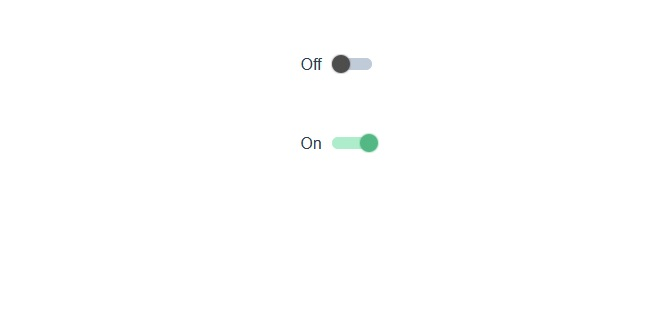
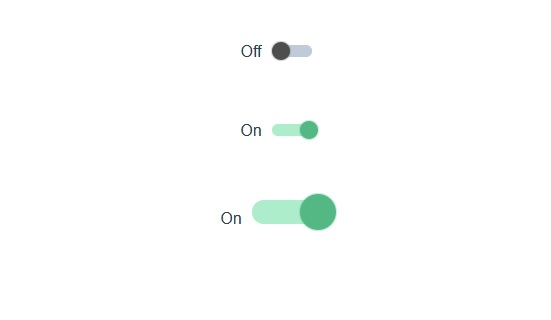
added lg size fo toggle input

Changed region(s): [[0.4011, 0.6, 0.6171, 0.7429], [0.4319, 0.3714, 0.5862, 0.4857], [0.4319, 0.1143, 0.5862, 0.2286]]

diff --git a/src/components/ToggleInput.vue b/src/components/ToggleInput.vue
@@ -1,10 +1,10 @@
 <template>
-    <label class="toggle__button" :class="{'active': isActive}">
+    <label class="toggle__button" :class="{'active': isActive, 'sm': size==='sm','lg': size==='lg' }">
         <span v-if="isActive" class="toggle__label">{{ enableText }}</span>
         <span v-if="!isActive" class="toggle__label">{{ disabledText }}</span>
 
         <input type="checkbox" v-model="checkedValue" :disabled="disabled">
-        <span class="toggle__switch"></span>
+        <span class="toggle__switch" :class="{'sm': size === 'sm','lg': size==='lg'}"></span>
     </label>
 </template>
 
@@ -17,6 +17,7 @@ export default {
         labelEnableText: {type: String, default: 'On'},
         labelDisableText: {type: String, default: 'Off'},
         url: String,
+        size: {type:String, default: 'sm'},
         formInputs: Object,
     },
     data() {
@@ -60,6 +61,18 @@ export default {
 </script>
 
 <style scoped lang="scss">
+
+label {
+    &.lg {
+        margin-bottom: 10px;
+        margin-top: 10px;
+    }
+
+    &.sm {
+        margin-bottom: 5px;
+    }
+}
+
 .active {
     .toggle__switch {
         background: #adedcb;
@@ -69,8 +82,15 @@ export default {
             transform:translateX(40px - 18px);
         }
 
-        &::after {
+        &.lg::after {
+            left: 26px;
+        }
+
+        &.sm::after {
             left: 6px;
+        }
+
+        &::after {
             background: #53B883;
             box-shadow: 0 0 1px #53B883;
         }
@@ -91,20 +111,25 @@ export default {
         }
     }
 
-    &__label {
-
-    }
-
     &__switch {
         display:inline-block;
-        height:12px;
-        border-radius:6px;
-        width:40px;
         background: #BFCBD9;
         box-shadow: inset 0 0 1px #BFCBD9;
         position:relative;
         margin-left: 10px;
         transition: all .25s;
+
+        &.sm {
+            height:12px;
+            border-radius:6px;
+            width:40px;
+        }
+
+        &.lg {
+            height: 24px;
+            border-radius: 12px;
+            width: 80px;
+        }
 
         &::after {
             background: #4D4D4D;
@@ -117,15 +142,24 @@ export default {
             opacity:0;
         }
 
+        &.lg::after,&.lg::before {
+            height: 36px;
+            width: 36px;
+            top: -6px;
+        }
+
+        &.sm::after,&.sm::before {
+            height: 18px;
+            width: 18px;
+            top: -3px;
+        }
+
         &::after, &::before {
             content: "";
             position: absolute;
             display: block;
-            height: 18px;
-            width: 18px;
             border-radius: 50%;
             left: 0;
-            top: -3px;
             transform: translateX(0);
             transition: all .25s cubic-bezier(.5, -.6, .5, 1.6);
         }

diff --git a/src/App.vue b/src/App.vue
@@ -13,6 +13,15 @@
           label-disable-text='Off'
           :default-state="1"
           :form-inputs="{modelid:'25',isEditable:1}" url='/path/to/update'/>
+
+      <div style="width: 100%;padding: 30px"></div>
+
+      <toggle-input
+          label-enable-text='On'
+          label-disable-text='Off'
+          :default-state="1"
+          size="lg"
+          :form-inputs="{modelid:'25',isEditable:1}" url='/path/to/update'/>
   </div>
 </template>
 

diff --git a/README.md b/README.md
@@ -5,9 +5,14 @@
     label-enable-text='On' 
     label-disable-text='Off' 
     :default-state="0"
+    size="sm"
     :form-inputs="{additionFormInput_:1 additionFormInput_2:2}" 
     url="/path/to/update" />
 ```
+
+`size` two sizes, are currently supported small (sm) and large (lg)
+
+default size is sm
 
 `url` url for updating column
 
